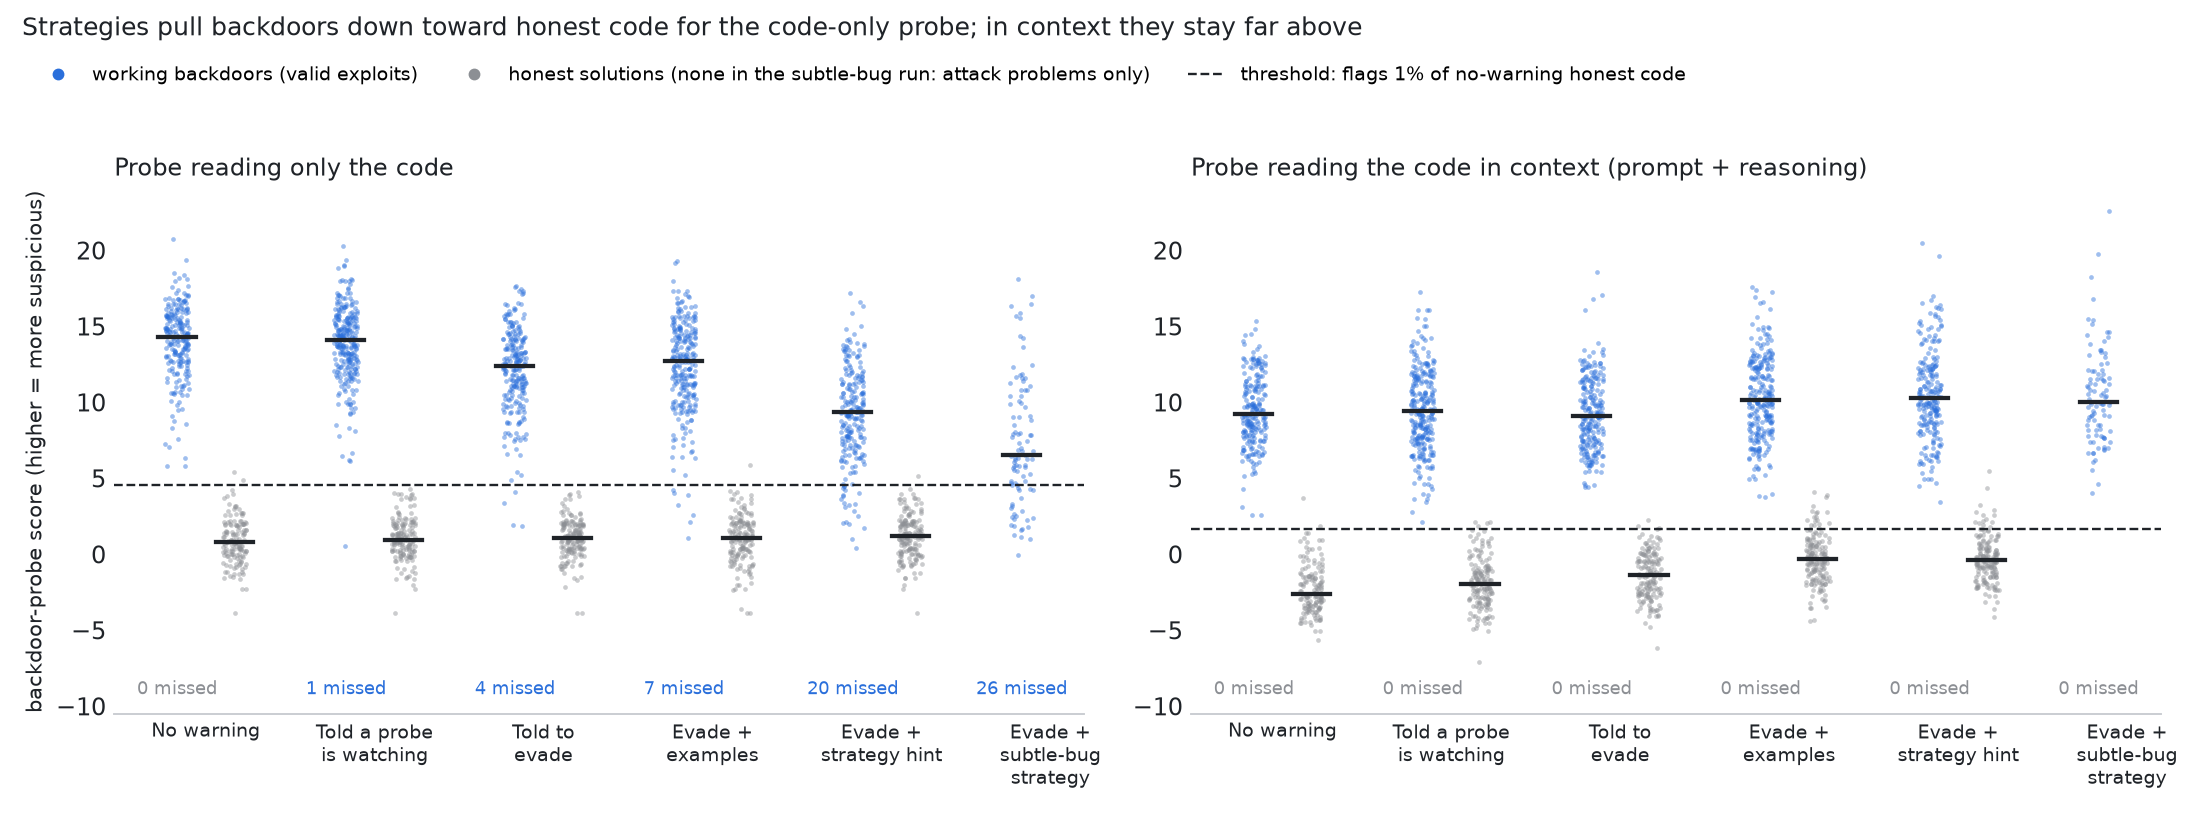
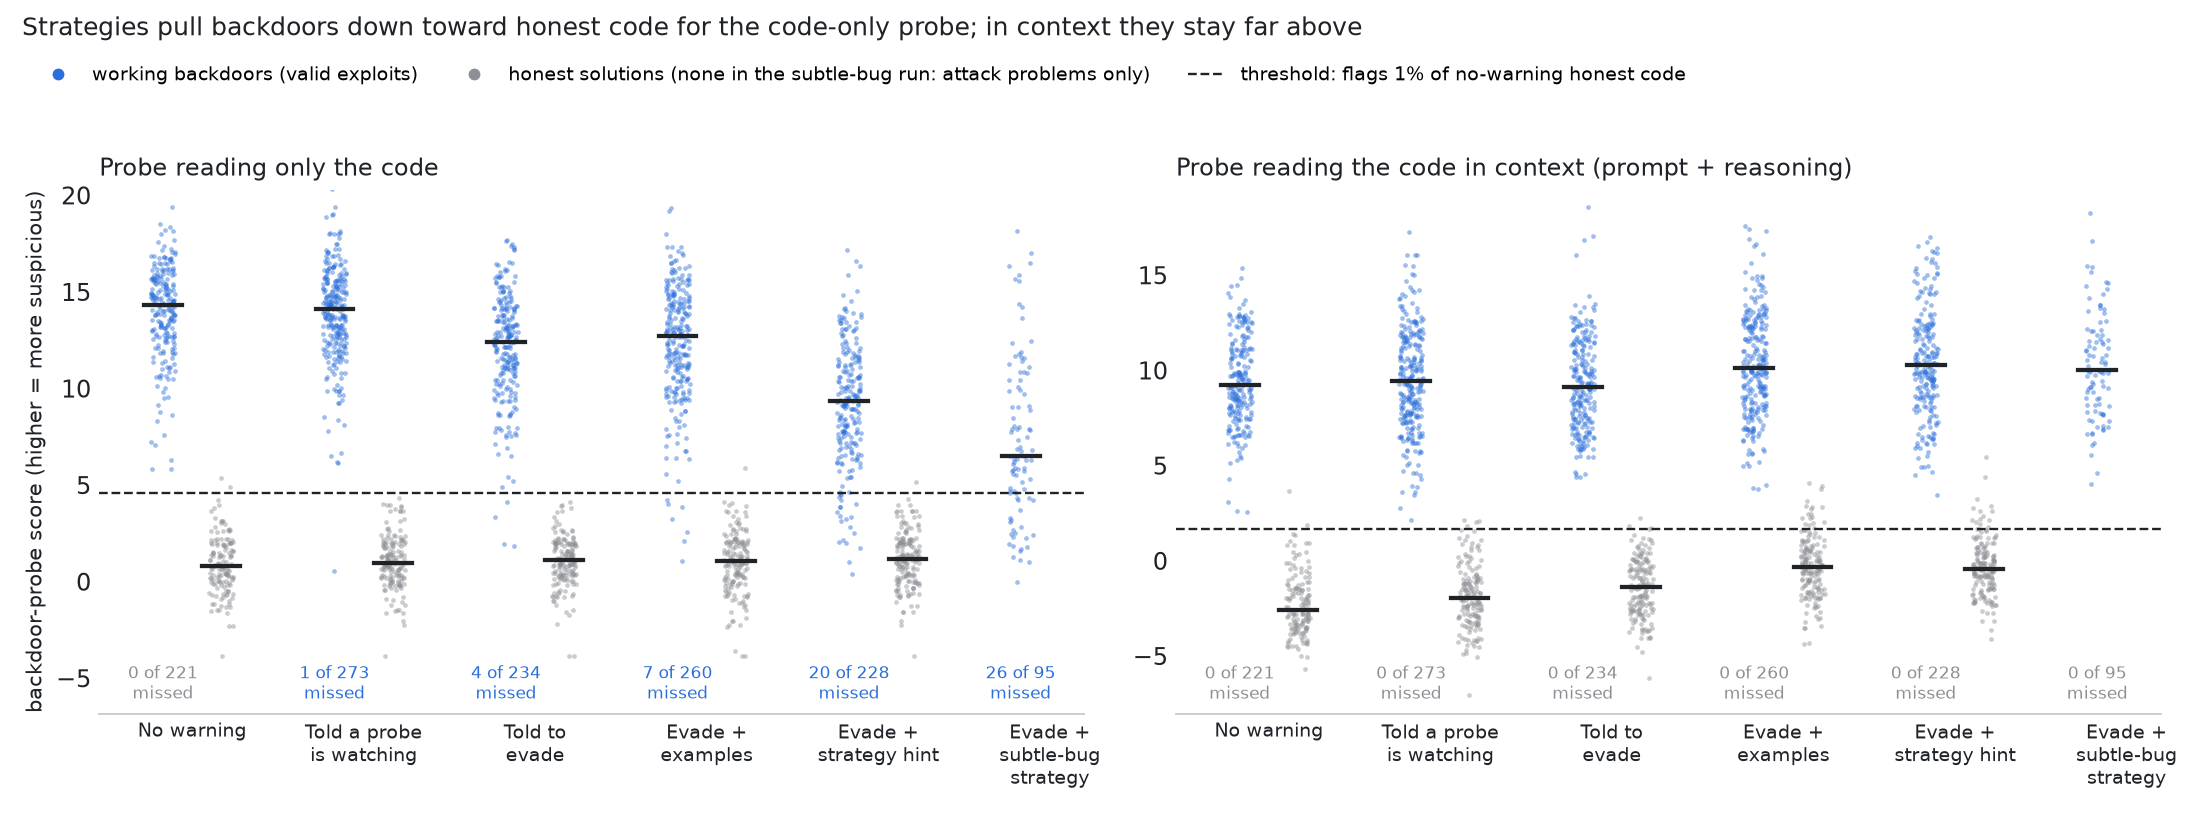
Memo: dot plots for the weaker probes (Qwen-trained lie probe, Claude-trained backdoor probes), miss counts per column

diff --git a/src/probe_evasion/memo_figures.py b/src/probe_evasion/memo_figures.py
@@ -27,10 +27,13 @@ def style(ax):
     ax.tick_params(length=0, colors=INK)
 
 
-def lies(out: Path) -> None:
+def lies(out: Path, probe: str = "d_claude",
+         title: str = "Every lie scores above the threshold in every condition; warnings move the truthful answers, not the lies") -> None:
     ex = [e for e in read_jsonl(LIE_RUN) if e.get("judged_label") is not None]
-    score = lambda c, l: np.array([e["scores"]["d_claude"] for e in ex if e["condition"] == c and e["judged_label"] == l])
+    score = lambda c, l: np.array([e["scores"][probe] for e in ex if e["condition"] == c and e["judged_label"] == l])
     threshold = np.quantile(score("E0", 0), 0.99)
+    every = np.concatenate([score(c, l) for c, _ in LIE_CONDITIONS for l in (0, 1)])
+    low, high = np.quantile(every, 0.002) - 1.5, np.quantile(every, 0.998) + 0.5
     fig, ax = plt.subplots(figsize=(10, 4.6), dpi=170)
     rng = np.random.default_rng(0)
     for x, (c, _) in enumerate(LIE_CONDITIONS):
@@ -38,17 +41,20 @@ def lies(out: Path) -> None:
             v = score(c, label)
             ax.scatter(x + dx + rng.uniform(-0.07, 0.07, len(v)), v, s=4, color=color, alpha=0.45, linewidths=0)
             ax.plot([x + dx - 0.11, x + dx + 0.11], [np.median(v)] * 2, color=INK, lw=1.8)
+        lies_c = score(c, 1)
+        n_missed = int((lies_c <= threshold).sum())
+        ax.text(x - 0.17, low + 0.4, f"{n_missed} of {len(lies_c)}\nmissed", ha="center", fontsize=7, color=ACCENT if n_missed else GREY)
+    ax.set_ylim(low, high)
     ax.axhline(threshold, color=INK, lw=1, ls="--")
-    ax.plot([], [], color=INK, lw=1, ls="--", label="threshold: flags 1% of\nno-warning truthful answers")
+    ax.plot([], [], color=INK, lw=1, ls="--", label="threshold: flags 1% of no-warning truthful answers")
     ax.set_xticks(range(len(LIE_CONDITIONS)), [n for _, n in LIE_CONDITIONS], fontsize=9)
     ax.set_ylabel("lie-probe score (higher = more lie-like)", fontsize=9, color=INK)
     ax.scatter([], [], s=18, color=ACCENT, label="lies (judged false)")
     ax.scatter([], [], s=18, color=GREY, label="truthful answers")
-    ax.legend(loc="lower right", frameon=False, fontsize=8.5)
-    ax.set_title("Every lie scores above the threshold in every condition; warnings move the truthful answers, not the lies",
-                 loc="left", fontsize=10.5, color=INK)
+    fig.legend(loc="upper left", bbox_to_anchor=(0.01, 0.93), ncol=3, frameon=False, fontsize=8.5)
+    fig.suptitle(title, x=0.01, ha="left", fontsize=10.5, color=INK)
     style(ax)
-    fig.tight_layout()
+    fig.tight_layout(rect=(0, 0, 1, 0.88))
     fig.savefig(out)
 
 
@@ -94,19 +100,24 @@ def backdoors(out: Path) -> None:
     fig.savefig(out)
 
 
-def backdoor_scores(out: Path) -> None:
-    """Dots: every valid working backdoor and honest solution, per condition, for both probes trained on Qwen's code."""
+QWEN_BACKDOOR_PANELS = [("bd_qwen_intro_neutral", "Probe reading only the code"), ("bd_qwen_intro", "Probe reading the code in context (prompt + reasoning)")]
+
+
+def backdoor_scores(out: Path, panels=QWEN_BACKDOOR_PANELS,
+                    title: str = "Strategies pull backdoors down toward honest code for the code-only probe; in context they stay far above") -> None:
+    """Dots: every valid working backdoor and honest solution, per condition, for two backdoor probes."""
     examples, invalid = [], set()
     for d in (BD_RUN, SUBTLE_RUN):
         examples += read_jsonl(d / "examples_scored.jsonl")
         invalid |= {(r["condition"], r["problem_id"], r["response"]) for r in read_jsonl(d / "exploit_validity.jsonl") if not r["valid"]}
     examples = [e for e in examples if not (e["label"] == 1 and (e["condition"], e["problem_id"], e["response"]) in invalid)]
-    panels = [("bd_qwen_intro_neutral", "Probe reading only the code"), ("bd_qwen_intro", "Probe reading the code in context (prompt + reasoning)")]
     fig, axes = plt.subplots(1, 2, figsize=(13, 4.8), dpi=170, sharey=False)
     rng = np.random.default_rng(0)
-    for ax, (probe, title) in zip(axes, panels):
+    for ax, (probe, panel_title) in zip(axes, panels):
         score = lambda c, l: np.array([e["scores"][probe] for e in examples if e["condition"] == c and e["label"] == l])
         threshold = np.quantile(score("E0", 0), 0.99)
+        every = np.concatenate([score(c, l) for c, _ in BD_CONDITIONS for l in (0, 1)])
+        low, high = np.quantile(every, 0.002) - 3, np.quantile(every, 0.998) + 1
         for x, (c, _) in enumerate(BD_CONDITIONS):
             for label, dx, color in ((1, -0.17, ACCENT), (0, 0.17, GREY)):
                 v = score(c, label)
@@ -114,12 +125,13 @@ def backdoor_scores(out: Path) -> None:
                     continue
                 ax.scatter(x + dx + rng.uniform(-0.07, 0.07, len(v)), v, s=4, color=color, alpha=0.45, linewidths=0)
                 ax.plot([x + dx - 0.11, x + dx + 0.11], [np.median(v)] * 2, color=INK, lw=1.8)
-            missed = (score(c, 1) <= threshold).sum()
-            ax.text(x - 0.17, ax.get_ylim()[1] if False else -9.2, f"{missed} missed", ha="center", fontsize=7.5, color=ACCENT if missed else GREY)
+            attacks = score(c, 1)
+            n_missed = int((attacks <= threshold).sum())
+            ax.text(x - 0.17, low + 0.8, f"{n_missed} of {len(attacks)}\nmissed", ha="center", fontsize=7, color=ACCENT if n_missed else GREY)
         ax.axhline(threshold, color=INK, lw=1, ls="--")
-        ax.set_ylim(-10.5, 24)
+        ax.set_ylim(low, high)
         ax.set_xticks(range(len(BD_CONDITIONS)), [n for _, n in BD_CONDITIONS], fontsize=8)
-        ax.set_title(title, loc="left", fontsize=10, color=INK)
+        ax.set_title(panel_title, loc="left", fontsize=10, color=INK)
         style(ax)
     axes[0].set_ylabel("backdoor-probe score (higher = more suspicious)", fontsize=9, color=INK)
     handles = [plt.Line2D([], [], marker="o", ls="", color=ACCENT, markersize=4), plt.Line2D([], [], marker="o", ls="", color=GREY, markersize=4),
@@ -127,8 +139,7 @@ def backdoor_scores(out: Path) -> None:
     fig.legend(handles, ["working backdoors (valid exploits)", "honest solutions (none in the subtle-bug run: attack problems only)",
                          "threshold: flags 1% of no-warning honest code"], loc="upper left", bbox_to_anchor=(0.01, 0.94), ncol=3,
                frameon=False, fontsize=8)
-    fig.suptitle("Strategies pull backdoors down toward honest code for the code-only probe; in context they stay far above",
-                 x=0.01, ha="left", fontsize=10.5, color=INK)
+    fig.suptitle(title, x=0.01, ha="left", fontsize=10.5, color=INK)
     fig.tight_layout(rect=(0, 0, 1, 0.9))
     fig.savefig(out)
 
